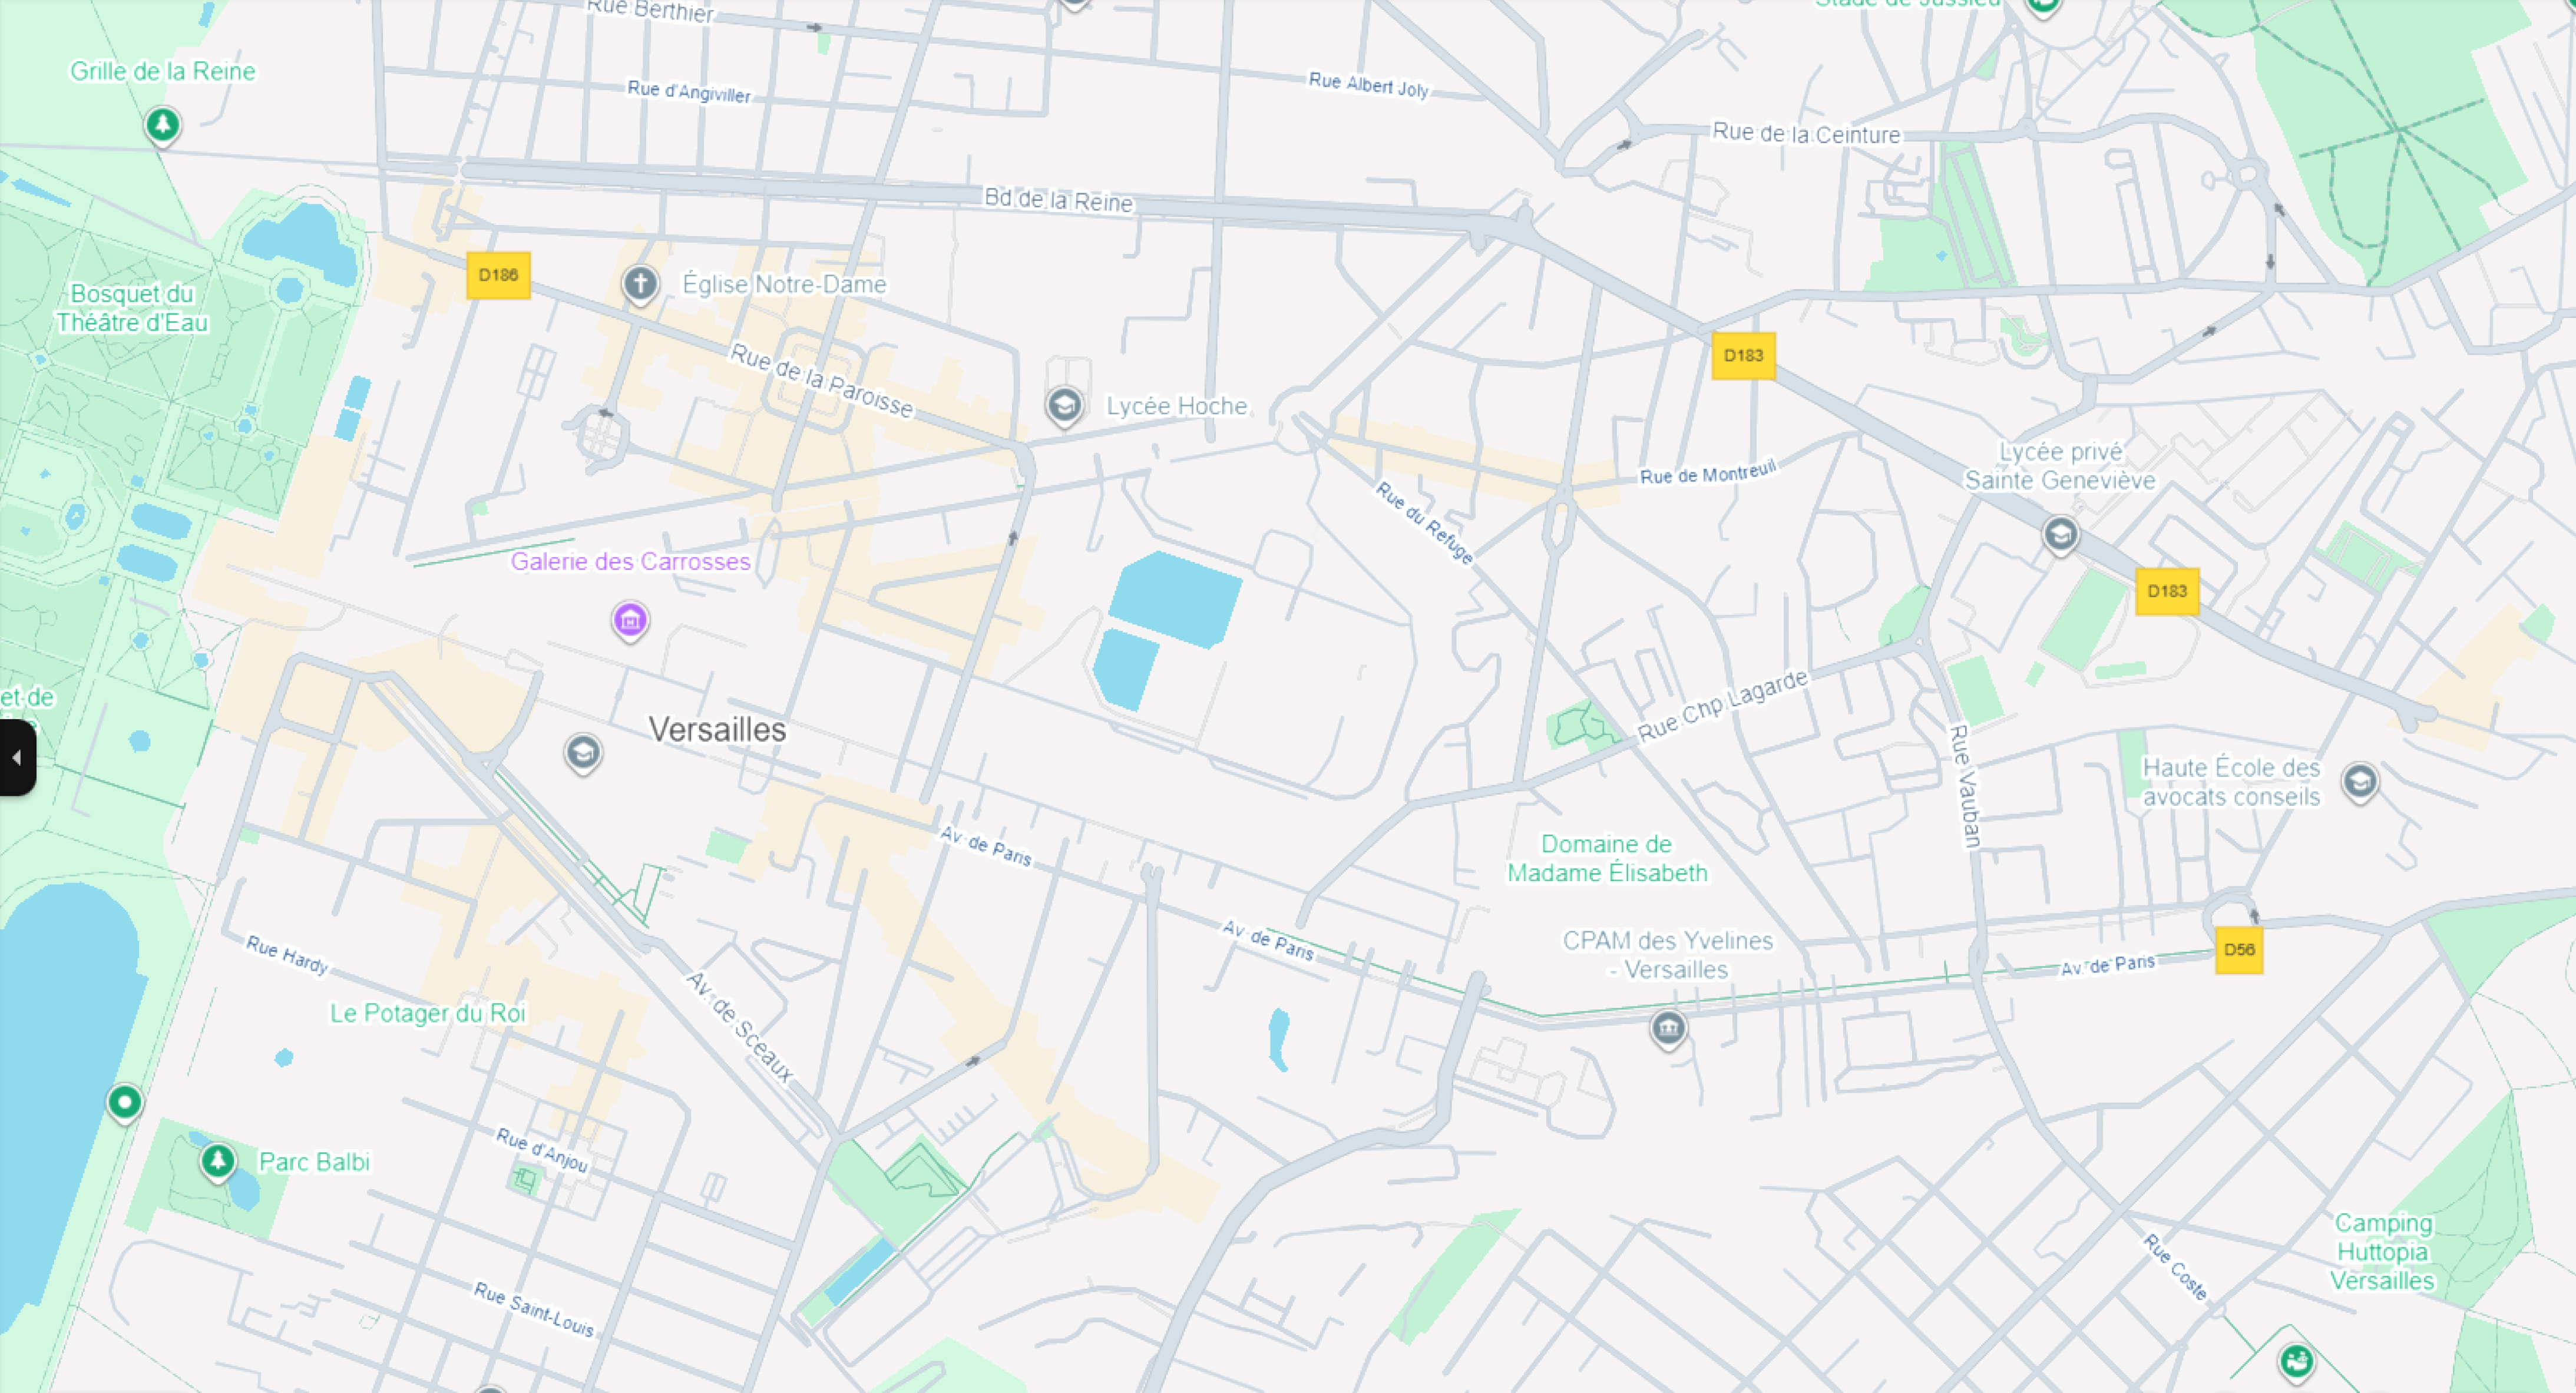
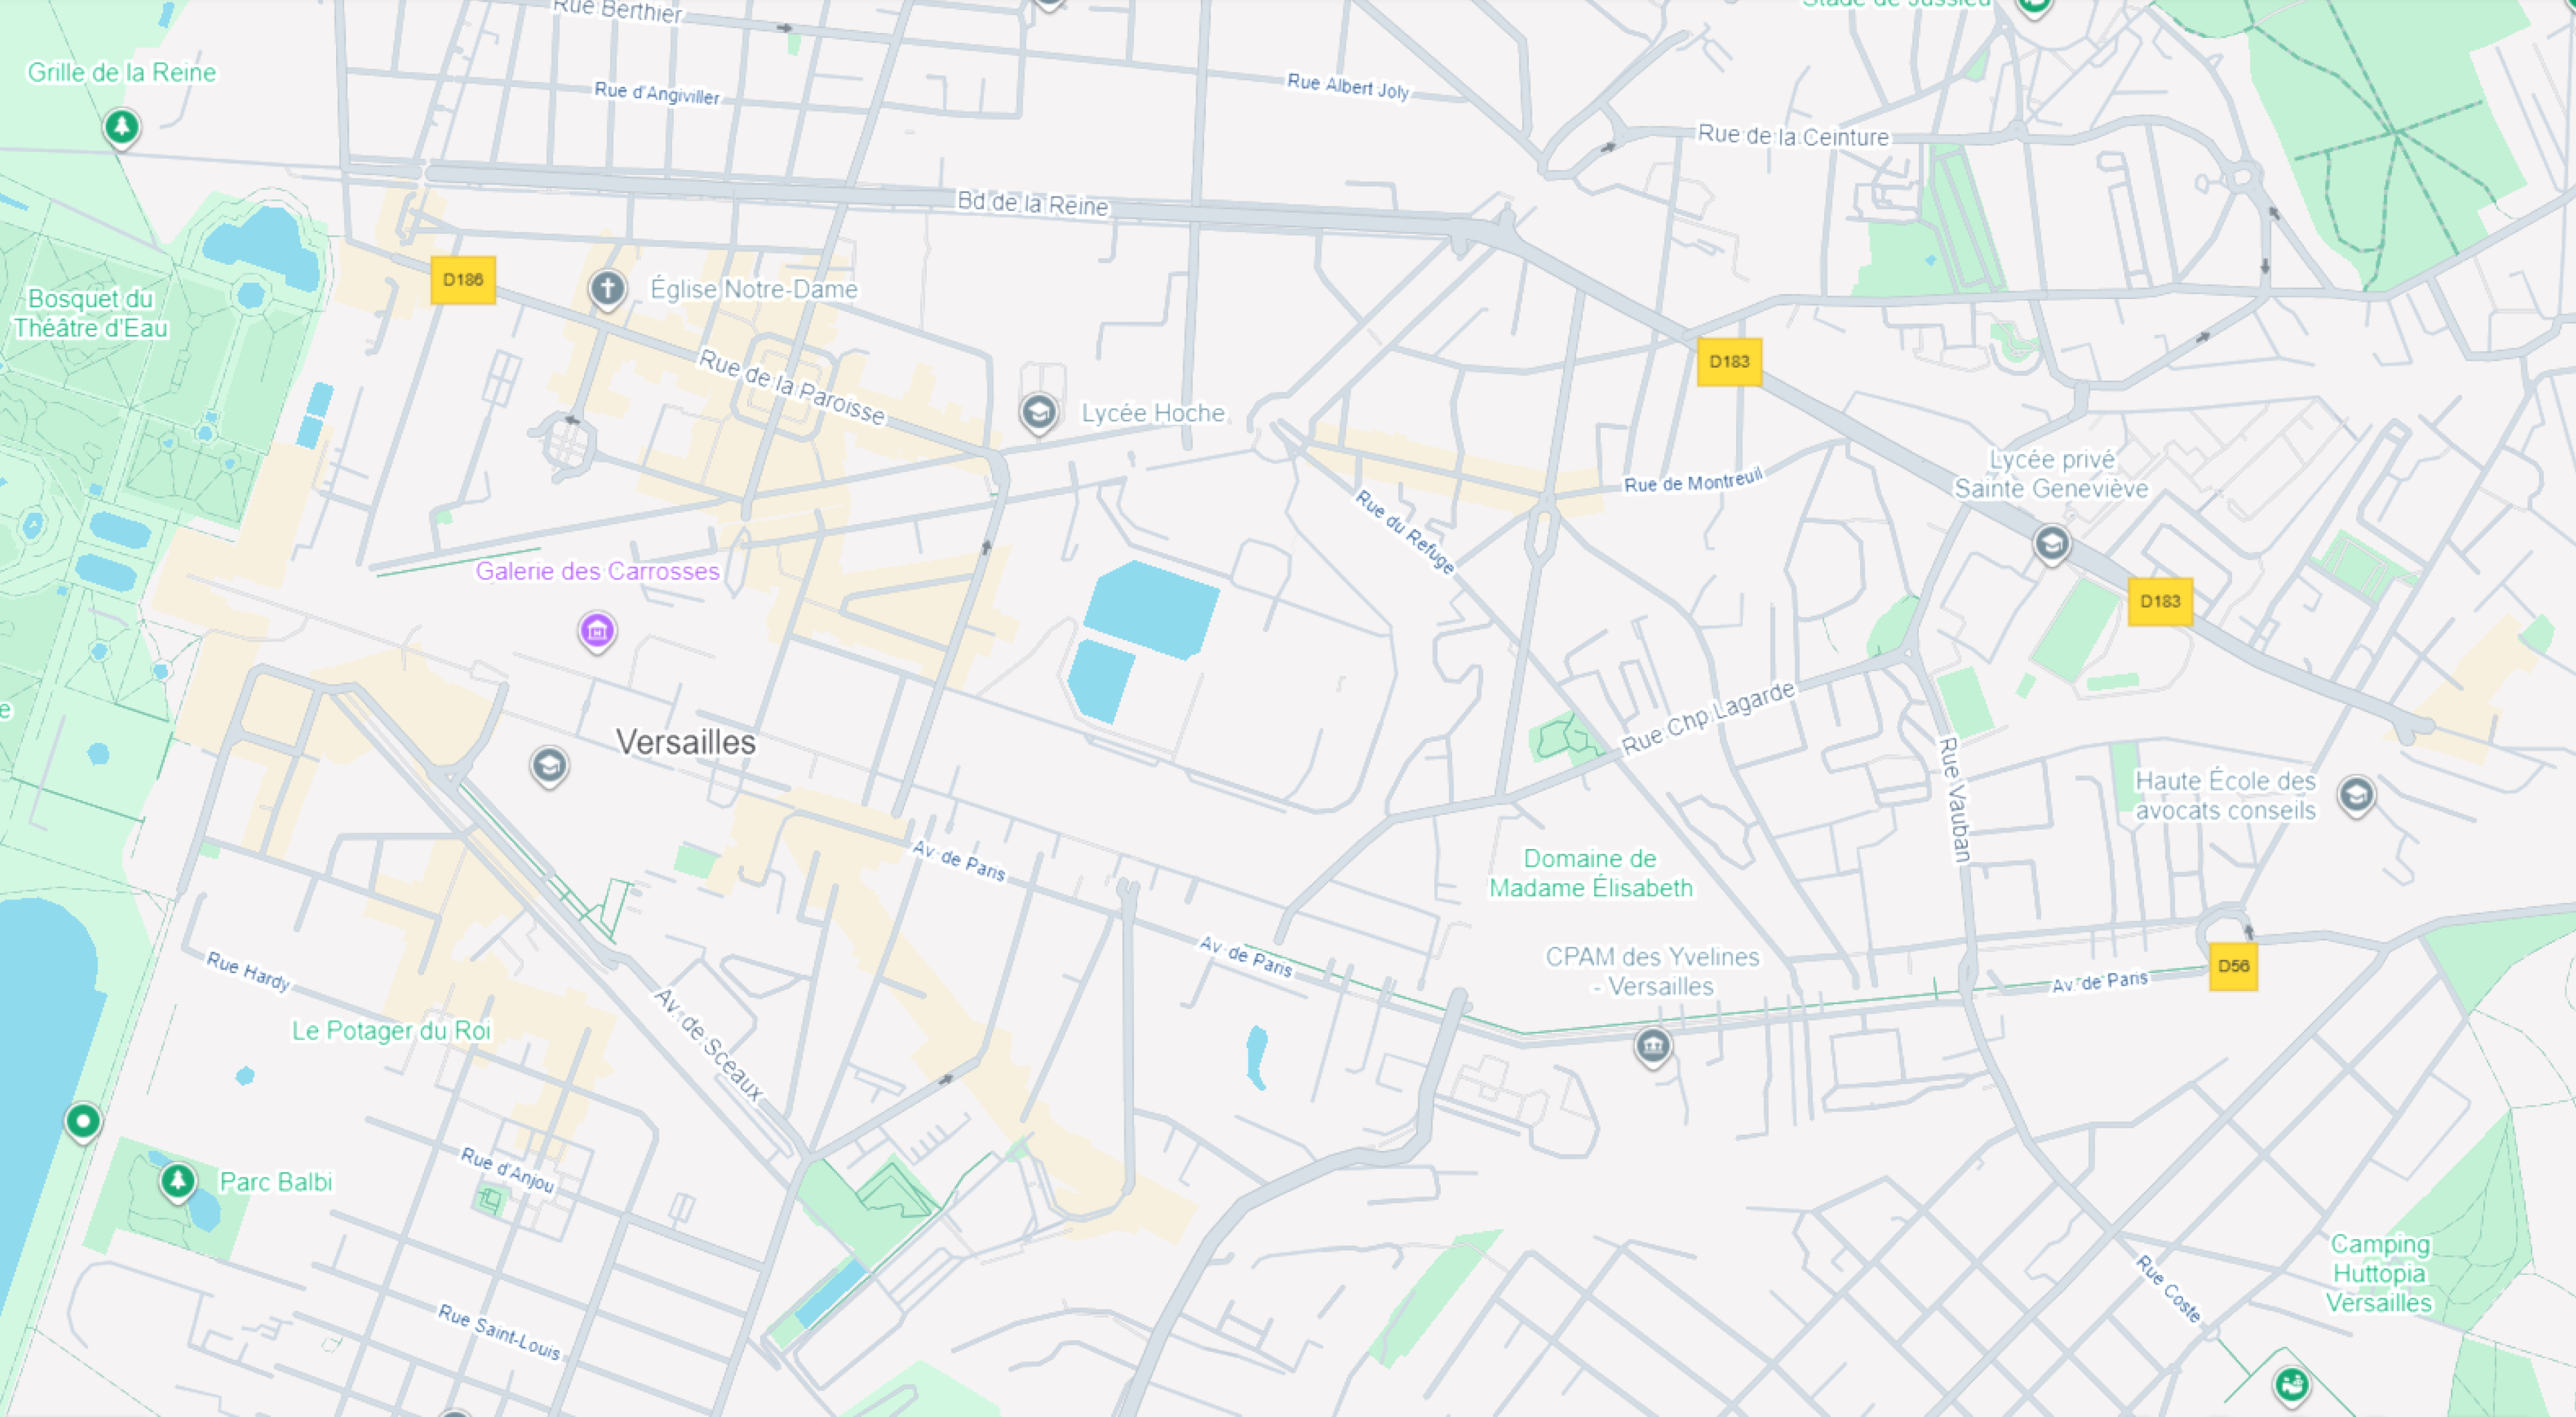
change other details

Changed region(s): [[0.0, 0.0, 0.966, 1.0], [0.0935, 0.7408, 0.1247, 0.7717]]

diff --git a/src/components/GarageFeature.tsx b/src/components/GarageFeature.tsx
@@ -1,0 +1,100 @@
+"use client";
+
+import { motion, useMotionValue, useSpring, useTransform } from "framer-motion";
+import React, { useRef } from "react";
+
+export default function GarageFeature() {
+    const ref = useRef<HTMLDivElement>(null);
+
+    // Motion values for mouse position
+    const x = useMotionValue(0);
+    const y = useMotionValue(0);
+
+    const springConfig = { damping: 20, stiffness: 300 };
+    const mouseX = useSpring(x, springConfig);
+    const mouseY = useSpring(y, springConfig);
+
+    // rotation du téléphone
+    // rotation du téléphone (très subtile pour garder le téléphone presque plat)
+    const containerRotateX = useTransform(mouseY, [-0.5, 0.5], ["5deg", "-5deg"]);
+    const containerRotateY = useTransform(mouseX, [-0.5, 0.5], ["-5deg", "5deg"]);
+
+    // rotation des albums (prononcé pour l'effet de perspective demandé)
+    const albumRotateX = useTransform(mouseY, [-0.5, 0.5], ["20deg", "-20deg"]);
+    const albumRotateY = useTransform(mouseX, [-0.5, 0.5], ["-20deg", "20deg"]);
+
+    // Intensités de parallax (x1 = léger, x2 = moyen, x3 = fort)
+    const p1 = {
+        x: useTransform(mouseX, [-0.5, 0.5], [-8, 8]),
+        y: useTransform(mouseY, [-0.5, 0.5], [-8, 8])
+    };
+    const p2 = {
+        x: useTransform(mouseX, [-0.5, 0.5], [-15, 15]),
+        y: useTransform(mouseY, [-0.5, 0.5], [-15, 15])
+    };
+    const p3 = {
+        x: useTransform(mouseX, [-0.5, 0.5], [-25, 25]),
+        y: useTransform(mouseY, [-0.5, 0.5], [-25, 25])
+    };
+
+    const getParallax = (level: number) => {
+        if (level === 1) return p1;
+        if (level === 3) return p3;
+        return p2;
+    };
+
+    /**
+     * CONFIGURATION DES ALBUMS
+     * Change ici les coordonnées (pos), tailles (size) et profondeurs (depth)
+     */
+    const ALBUMS = [
+        { src: "PORSCHE_Album.png", pos: "-left-0 top-16", size: "w-20", depth: "20px", parallax: 1 },
+        { src: "FERRARI_Album.png", pos: "-right-0 top-16", size: "w-20", depth: "20px", parallax: 1 },
+        { src: "LAMBO_Album.png", pos: "-left-2 top-[43%]", size: "w-20", depth: "30px", parallax: 2 },
+        { src: "BUGATTI_Album.png", pos: "-right-2 top-[43%]", size: "w-20", depth: "30px", parallax: 2 },
+        { src: "MCLAREN_Album.png", pos: "-left-0 bottom-8", size: "w-20", depth: "20px", parallax: 1 },
+        { src: "PAGANI_Album.png", pos: "-right-0 bottom-8", size: "w-20", depth: "20px", parallax: 1 },
+    ];
+
+    const handleMouseMove = (e: React.MouseEvent<HTMLDivElement>) => {
+        if (!ref.current) return;
+        const rect = ref.current.getBoundingClientRect();
+        x.set((e.clientX - rect.left) / rect.width - 0.5);
+        y.set((e.clientY - rect.top) / rect.height - 0.5);
+    };
+
+    return (
+        <motion.div
+            ref={ref}
+            onMouseMove={handleMouseMove}
+            onMouseLeave={() => { x.set(0); y.set(0); }}
+            className="relative w-full h-[350px] flex items-center justify-center"
+            style={{ perspective: "1200px" }}
+        >
+            <motion.div
+                className="relative w-[150px] h-[300px] md:w-[180px] md:h-[360px]"
+                style={{ rotateX: containerRotateX, rotateY: containerRotateY, transformStyle: "preserve-3d" }}
+            >
+                <img src="/presentation/PC_albums_trie/phone.png" className="absolute inset-0 w-full h-full object-contain pointer-events-none drop-shadow-2xl z-20" />
+
+                {ALBUMS.map((album, i) => {
+                    const m = getParallax(album.parallax);
+                    return (
+                        <motion.img
+                            key={i}
+                            src={`/presentation/PC_albums_trie/${album.src}`}
+                            className={`absolute ${album.pos} ${album.size} h-auto object-contain z-30 drop-shadow-xl`}
+                            style={{
+                                x: m.x,
+                                y: m.y,
+                                translateZ: album.depth,
+                                rotateX: albumRotateX,
+                                rotateY: albumRotateY
+                            }}
+                        />
+                    );
+                })}
+            </motion.div>
+        </motion.div>
+    );
+}

diff --git a/src/app/page.tsx b/src/app/page.tsx
@@ -10,8 +10,9 @@ import { Dialog, DialogContent, DialogDescription, DialogHeader, DialogTitle, Di
 import { Toaster } from "@/components/ui/sonner"
 import { toast } from "sonner"
 import Spline from '@splinetool/react-spline';
-import { motion, AnimatePresence } from 'framer-motion';
+import { motion } from 'framer-motion';
 import { useMediaQuery } from 'react-responsive';
+import GarageFeature from '@/components/GarageFeature';
 import Header from "@/components/Header";
 import Footer from '@/components/Footer';
 import { FilloutStandardEmbed } from "@fillout/react";
@@ -194,7 +195,7 @@ export default function Home() {
                   }
                 }}>
                 {isMobile ? (
-                  <img src="/app-screenshot.png" width="346" height="715" alt="App Screenshot" className="mx-auto aspect-[346/715] overflow-hidden rounded-xl object-cover sm:w-full lg:order-last max-h-[552px] max-w-[267px]" />
+                  <img src="/presentation/camera_page_Capturez_une_voiture.png" width="346" height="715" alt="App Screenshot" className="mx-auto aspect-[346/715] overflow-hidden rounded-xl object-cover sm:w-full lg:order-last max-h-[552px] max-w-[267px]" />
                 ) : (
                   <Spline className="mx-auto aspect-[346/720] rounded-xl object-cover sm:w-full lg:order-last max-h-[552px] max-w-[300px]" scene="https://prod.spline.design/0UPCp4GVK8DoDLkA/scene.splinecode" />
                 )}
@@ -225,7 +226,7 @@ export default function Home() {
                 whileInView={{ opacity: 1, scale: 1 }}
                 viewport={{ once: true }}
                 whileHover={{ scale: 1.02 }}
-                transition={{ duration: 0.4 }}
+                transition={{ duration: 0.5, ease: "easeOut" }}
                 className="col-span-1 md:col-span-2 bg-white dark:bg-zinc-900 rounded-[2rem] p-8 flex flex-col md:flex-row items-center justify-between gap-8 md:gap-12 overflow-hidden relative group shadow-xl hover:shadow-2xl transition-all"
               >
                 <div className="z-10 md:w-1/2 space-y-4">
@@ -247,7 +248,7 @@ export default function Home() {
                 whileInView={{ opacity: 1, scale: 1 }}
                 viewport={{ once: true }}
                 whileHover={{ scale: 1.02 }}
-                transition={{ duration: 0.4, delay: 0.1 }}
+                transition={{ duration: 0.5, delay: 0.1, ease: "easeOut" }}
                 className="col-span-1 md:col-span-1 bg-white dark:bg-zinc-900 rounded-[2rem] p-8 flex flex-col items-center text-center gap-6 overflow-hidden relative group shadow-xl hover:shadow-2xl transition-all"
               >
                 <div className="z-10 space-y-2">
@@ -269,7 +270,7 @@ export default function Home() {
                 whileInView={{ opacity: 1, scale: 1 }}
                 viewport={{ once: true }}
                 whileHover={{ scale: 1.01 }}
-                transition={{ duration: 0.4 }}
+                transition={{ duration: 0.5, ease: "easeOut" }}
                 className="col-span-1 md:col-span-3 min-h-[500px] bg-black rounded-[2rem] relative overflow-hidden group shadow-2xl flex items-center justify-center"
               >
                 {/* Background Image - BRIGHTER */}
@@ -307,7 +308,7 @@ export default function Home() {
                 whileInView={{ opacity: 1, scale: 1 }}
                 viewport={{ once: true }}
                 whileHover={{ scale: 1.02 }}
-                transition={{ duration: 0.4, delay: 0.1 }}
+                transition={{ duration: 0.5, delay: 0.1, ease: "easeOut" }}
                 className="col-span-1 md:col-span-1 bg-white dark:bg-zinc-900 rounded-[2rem] p-8 flex flex-col items-center text-center gap-6 overflow-hidden relative group shadow-xl hover:shadow-2xl transition-all"
               >
                 <div className="z-10 space-y-2">
@@ -329,19 +330,24 @@ export default function Home() {
                 whileInView={{ opacity: 1, scale: 1 }}
                 viewport={{ once: true }}
                 whileHover={{ scale: 1.02 }}
-                transition={{ duration: 0.4 }}
+                transition={{ duration: 0.5, ease: "easeOut" }}
                 className="col-span-1 md:col-span-2 bg-white dark:bg-zinc-900 rounded-[2rem] p-8 flex flex-col md:flex-row-reverse items-center justify-between gap-8 overflow-hidden relative group shadow-xl hover:shadow-2xl transition-all"
               >
                 <div className="z-10 md:w-1/2 space-y-4 text-right">
                   <h3 className="text-2xl md:text-4xl font-bold">Organized Garage</h3>
                   <p className="text-muted-foreground">Find all your cars perfectly sorted in your virtual garage.</p>
                 </div>
-                <div className="md:w-1/2 flex justify-center items-center">
+                <div className="md:w-1/2 flex justify-center items-center w-full">
+                  {/* Shows on Mobile Only */}
                   <img
                     src="/presentation/albums_trie.png"
                     alt="Garage"
-                    className="w-full h-auto max-h-[350px] object-contain drop-shadow-2xl rounded-xl transition-transform duration-500 group-hover:scale-105"
+                    className="md:hidden w-full h-auto max-h-[350px] object-contain drop-shadow-2xl rounded-xl transition-transform duration-500 group-hover:scale-105"
                   />
+                  {/* Shows on Desktop Only - Interactive Parallax */}
+                  <div className="hidden md:block w-full">
+                    <GarageFeature />
+                  </div>
                 </div>
               </motion.div>
             </div>
@@ -354,7 +360,7 @@ export default function Home() {
                 whileInView={{ opacity: 1, scale: 1 }}
                 viewport={{ once: true }}
                 whileHover={{ scale: 1.02 }}
-                transition={{ duration: 0.4 }}
+                transition={{ duration: 0.5, ease: "easeOut" }}
                 className="bg-white dark:bg-zinc-900 rounded-[2rem] p-8 flex flex-col items-center gap-6 overflow-hidden relative group shadow-xl hover:shadow-2xl transition-all"
               >
                 <div className="z-10 space-y-2 text-center">
@@ -376,7 +382,7 @@ export default function Home() {
                 whileInView={{ opacity: 1, scale: 1 }}
                 viewport={{ once: true }}
                 whileHover={{ scale: 1.02 }}
-                transition={{ duration: 0.4, delay: 0.1 }}
+                transition={{ duration: 0.5, delay: 0.1, ease: "easeOut" }}
                 className="bg-white dark:bg-zinc-900 rounded-[2rem] p-8 flex flex-col items-center gap-6 overflow-hidden relative group shadow-xl hover:shadow-2xl transition-all"
               >
                 <div className="z-10 space-y-2 text-center">